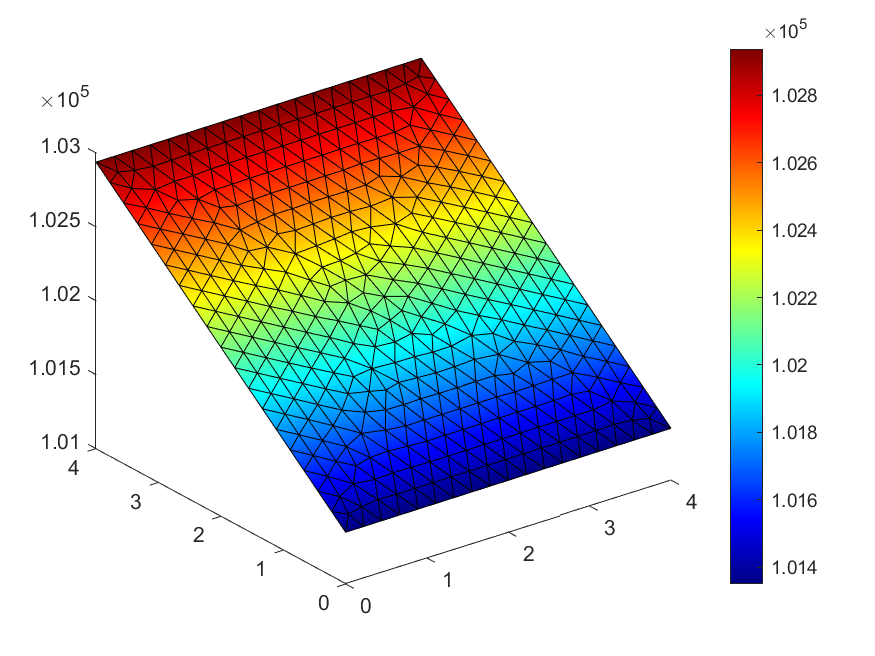
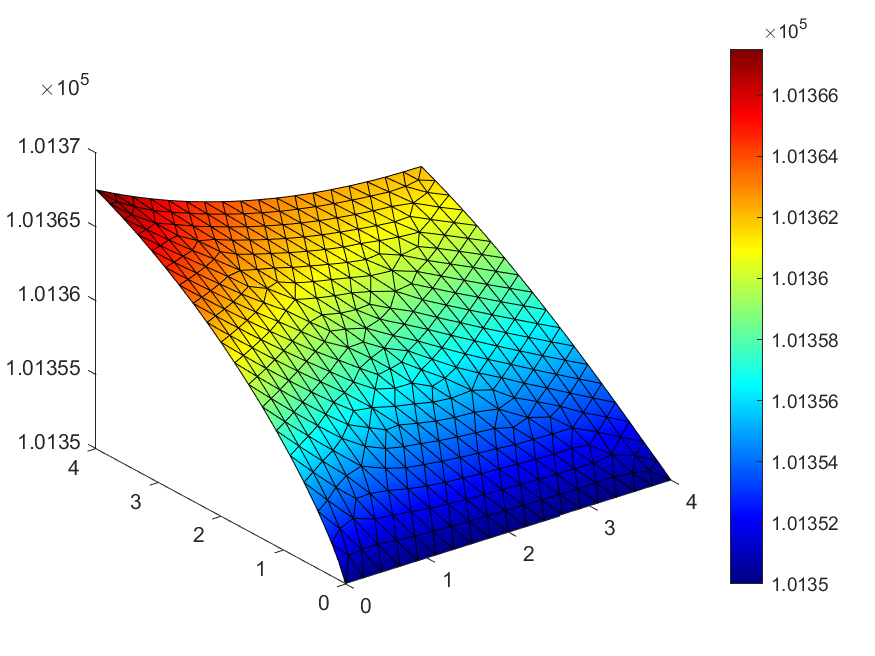
Finished most of the leg work. Now need to add in some additional test cases and clean up a bit

diff --git a/source/porous_flow_2D.m b/source/porous_flow_2D.m
@@ -53,6 +53,8 @@ classdef porous_flow_2D < handle
         rxn_enthalpy          % Matrix for reaction enthalpies (J/mol)
 
         model                 % PDE model object 
+
+        boundaries            % Object to identify boundaries 
     end
     
     %% Public methods
@@ -113,6 +115,11 @@ classdef porous_flow_2D < handle
             obj.model.SolverOptions.ResidualNorm = 2;         % L-2 norm
             obj.model.SolverOptions.MaxShift = 500;           % Lanczos solver shift
             obj.model.SolverOptions.BlockSize = 50;           % Block size for Lanczos recurrence
+
+            obj.boundaries = struct("input", struct("ids",[], "velocity",[], ...
+                "temperature",[], "concentration",[]), ...
+                    "output",struct("ids",[], "pressure",[]), "walls", ...
+                        struct("ids",[], "temperature",[]));
         end
 
         %% Function to set model geometry from edges
@@ -128,6 +135,15 @@ classdef porous_flow_2D < handle
         %               [optional]
         function pg = set_geometry_from_edges(obj, geo)
             pg = geometryFromEdges(obj.model,geo);
+
+            % Name,Value options (look up for more info)
+            %-------------------
+            % "GeometricOrder","linear"
+            % "Hedge",{[1 2],0.01,3,0.05}
+            % "Hface",{[1 2],0.1,[3 4 5],0.05}
+            % "Hmin",0.05
+            % "Hmax",0.25
+            generateMesh(obj.model);
         end
 
         %% Function to set model coefficients based on region
@@ -151,6 +167,130 @@ classdef porous_flow_2D < handle
                 fmat{i,1} = @(location,state) obj.f_coeff_fun(i,location,state);
                 CA{i,1} = specifyCoefficients(obj.model,"m",0,"d",dmat{i,1},"c",cmat{i,1},"a",0,"f",fmat{i,1},"Face",i);
             end
+        end
+
+        %% Function to set input boundaries
+        %
+        %       Calling this function will set the input boundaries for
+        %       velocity, temperature, and all concentrations based on the
+        %       user provided information.
+        %
+        %   @param boundary_set Set of boundary IDs
+        %   @param velocity_set Set of velocity values at the IDs
+        %   @param temperature_set Set of temperatures at the IDs
+        %   @param concentration_matrix NxID matrix of concentrations for
+        %           each species at each boundary ID
+        function bc = set_input_boundaries(obj, boundary_set, velocity_set, ...
+                    temperature_set, concentration_matrix)
+            arguments
+                obj
+                boundary_set (1,:)
+                velocity_set (1,:)
+                temperature_set (1,:)
+                concentration_matrix (:,:)
+            end
+
+            N = size(obj.mobile_spec_idx,1);
+            IDs = size(boundary_set,2);
+            
+            ge = zeros(N+2,IDs);
+            qe = zeros(N+2,N+2,IDs);
+            re = zeros(N+2,IDs);
+            he = zeros(N+2,N+2,IDs);
+            
+            for i=1:IDs
+                ge(1,i) = velocity_set(i);
+                coeff = obj.bulk_porosity(1,1,1)*obj.DensityWater(101350,temperature_set(i),1)* ...
+                    obj.SpecificHeatWater(temperature_set(i),1)/obj.TempTimeCoeff(101350,temperature_set(i),1)*...
+                    velocity_set(i);
+                ge(2,i) = coeff*(temperature_set(i));
+                qe(2,2,i) = coeff;
+                for j=3:N+2
+                    ge(j,i) = velocity_set(i)*(concentration_matrix(j-2,i));
+                    qe(j,j,i) = velocity_set(i);
+                end
+                bc = applyBoundaryCondition(obj.model,"mixed", ...
+                                             "Edge",boundary_set(i), ...
+                                             "h",he(:,:,i),"r",re(:,i),"q",qe(:,:,i),"g",ge(:,i));
+            end
+        end
+
+
+        %% Function to set output boundaries
+        %
+        %       Calling this function will set the output boundaries for
+        %       pressure based on user inputs
+        %
+        %   @param boundary_set Set of boundary IDs
+        %   @param pressure_set Set of pressure values at the IDs
+        function bc = set_output_boundaries(obj, boundary_set, pressure_set)
+            arguments
+                obj
+                boundary_set (1,:)
+                pressure_set (1,:)
+            end
+            
+            N = size(obj.mobile_spec_idx,1);
+            IDs = size(boundary_set,2);
+            
+            ge = zeros(N+2,IDs);
+            qe = zeros(N+2,N+2,IDs);
+            re = zeros(N+2,IDs);
+            he = zeros(N+2,N+2,IDs);
+            
+            for i=1:IDs
+                he(1,1,i) = 1;
+                re(1,i) = pressure_set(i);
+                bc = applyBoundaryCondition(obj.model,"mixed", ...
+                                             "Edge",boundary_set(i), ...
+                                             "h",he(:,:,i),"r",re(:,i),"q",qe(:,:,i),"g",ge(:,i));
+            end
+        end
+
+
+        %% Function to set initial conditions
+        %
+        %       Calling this function will set the initial conditions for
+        %       all variables for a set of subdomain IDs
+        %
+        %   @param subdomain_set Set of subdomain IDs
+        %   @param pressure_set Set of pressure values at the IDs
+        %   @param temperature_set Set of temperatures at the IDs
+        %   @param concentration_matrix NxID matrix of concentrations for
+        %           each species at each subdomain ID   
+        function ic = set_initial_conditions(obj, subdomain_set, pressure_set, ...
+                temperature_set, concentration_matrix)
+            arguments
+                obj
+                subdomain_set (1,:)
+                pressure_set (1,:)
+                temperature_set (1,:)
+                concentration_matrix (:,:)
+            end
+            
+            N = size(obj.mobile_spec_idx,1);
+            IDs = size(subdomain_set,2);
+            
+            u0 = zeros(N+2,IDs);
+            
+            for i=1:IDs
+                u0(1,i) = pressure_set(i);
+                u0(2,i) = temperature_set(i);
+                for j=3:N+2
+                    u0(j,i) = concentration_matrix(j-2,i);
+                end
+                ic = setInitialConditions(obj.model,u0(:,i),"Face",subdomain_set(i));
+            end
+        end
+
+        %% Function to solve the model for a given time span
+        %
+        %       Calling this function will solve the PDE for a set of
+        %       specified time points provided by the user.
+        %
+        %   @param t_span An array of time points to calculate solutions at
+        function results = solve_system(obj, t_span)
+            results = solvepde(obj.model,t_span);
         end
 
         

diff --git a/tests/test_porous_flow_2D_01.m b/tests/test_porous_flow_2D_01.m
@@ -89,57 +89,27 @@ obj.set_geometry_from_edges(g);
 
 obj.set_coefficients();
 
-% BC Formats
-%
-%       Dirichlet:  h*u=r
-%
-%       Neumann:    n * (c * grad(u)) = g - q*u
+inbound_set = [3,4];
+velocity_set = [0.005,0.0075];
+temperature_set = [298,298];
+concentration_matrix = [1,0.5];
+obj.set_input_boundaries(inbound_set, velocity_set, ...
+                    temperature_set, concentration_matrix);
 
-% Apply BCs
-% Enter
-he = [0 0 0; 
-     0 1 0; 
-     0 0 1];
-
-re = [0;298;1];
-
-qe = [0 0 0; 
-     0 0 0; 
-     0 0 0];
-
-ge = [0.01;0;0];
-
-applyBoundaryCondition(obj.model,"mixed", ...
-                             "Edge",3, ...
-                             "h",he,"r",re,"q",qe,"g",ge);
-
-
-% exit
-hw = [1 0 0; 
-     0 0 0; 
-     0 0 0];
-
-rw = [101350;0;0];
-
-qw = [0 0 0; 
-      0 0 0; 
-      0 0 0];
-
-gw =  [0; 0; 0];
-
-applyBoundaryCondition(obj.model,"mixed", ...
-                             "Edge",1, ...
-                             "h",hw,"r",rw,"q",qw,"g",gw);
-
+outbound_set = [1];
+pressure_set = [101350];
+obj.set_output_boundaries(outbound_set, pressure_set);
 
 % Set initial conditions 
-u0 = [101350;298;0];
-setInitialConditions(obj.model,u0);
-generateMesh(obj.model);
+subdomain_set = [1];
+pressure_set = [101350];
+temperature_set = [298];
+concentration_matrix = [0];
+obj.set_initial_conditions(subdomain_set,pressure_set,temperature_set, concentration_matrix);
 
-nsteps=10;
+nsteps=20;
 t_span = linspace(0,200,nsteps);
-results = solvepde(obj.model,t_span);
+results = obj.solve_system(t_span);
 u = results.NodalSolution;
 
 f1 = figure;
